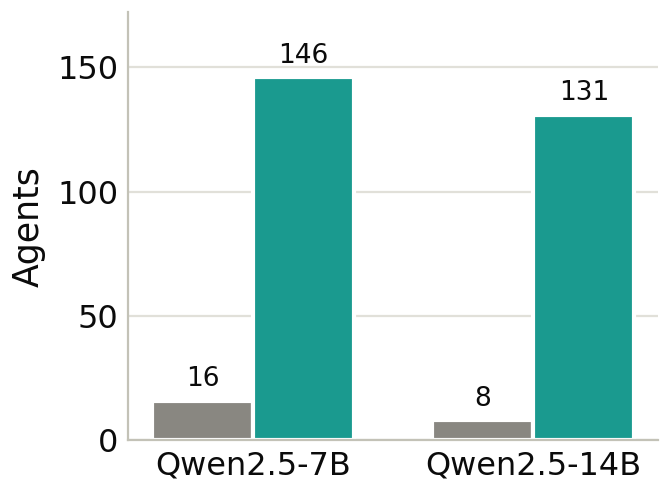
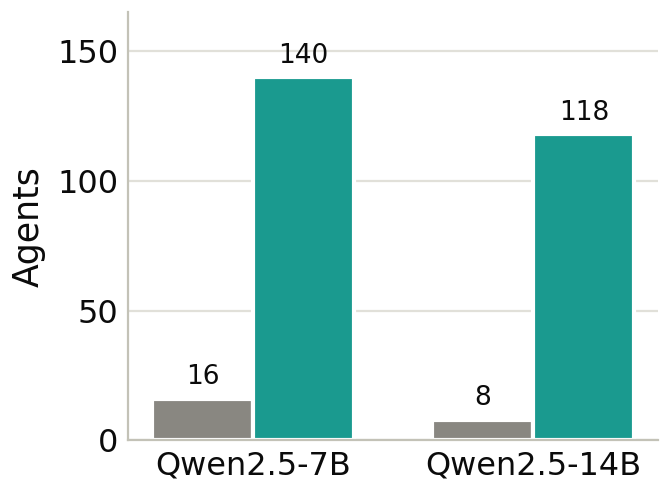
State the capacity criterion with mapped files counted as used

diff --git a/figures/make_paper_figures.py b/figures/make_paper_figures.py
@@ -701,8 +701,7 @@ def stack():
     for more in ("20261008-engine-kvstack-capacity-v2",
                  "20261008-engine-kvstack-capacity-136-v1",
                  "20261008-engine-kvstack-capacity-140-v1",
-                 "20261009-engine-kvstack-capacity-copy-v1",
-                 "20261009-engine-kvstack-capacity-max-v1"):
+                 "20261009-engine-kvstack-capacity-copy-v1"):
         if have(more, "engine_kvstack_summary.csv"):
             line.update({(r["mode"], int(r["agents"])): r
                          for r in rows(more, "engine_kvstack_summary.csv") if int(r["runs"]) > 0})
@@ -761,9 +760,11 @@ def stack():
     fig, ax = panel()
     series = [(label, colour, [int(model[m]["agents_that_fit_by_line"]) for _, model in models])
               for label, colour, m, _ in STACKS if m in ("none", "both")]
-    # every stack at the count that it runs while 16 GiB remain available
+    # every stack at the count that it runs while 16 GiB remain unused; the model
+    # file that the agents map counts as used, which the larger counts of the
+    # campaigns -max-v1 and -qwen14b-131-v1 do not satisfy
     measured = {"none": ("20261009-engine-kvstack-capacity-copy-v1", "20261008-engine-kvstack-qwen14b-none8-v1"),
-                "both": ("20261009-engine-kvstack-capacity-max-v1", "20261008-engine-kvstack-capacity-qwen14b-131-v1")}
+                "both": ("20261008-engine-kvstack-capacity-140-v1", "20261008-engine-kvstack-capacity-qwen14b-118-v1")}
     series = [(label, colour, [ran(d, m) for d in measured[m]][:len(models)])
               for label, colour, m, _ in STACKS if m in measured]
     for group in grouped(ax, [label for label, _ in models], series, 0.36):

diff --git a/docs/RESEARCH_LLM_SHARE_2026-10-05.md b/docs/RESEARCH_LLM_SHARE_2026-10-05.md
@@ -1420,6 +1420,21 @@ files). No agent fails, at least 16.8 GiB remain available in every
 repetition, and the 146 agents generate 37.61 tokens/s in total. Larger
 counts were not run.
 
+**The criterion for the capacity.** `MemAvailable` counts the page cache of
+the model file as available. The unmodified stack does not need these pages
+after it has copied the weights to device memory, but the stacks that read
+the weights in place keep reading them through the GPU. The capacity of a
+stack is therefore the count at which at least 16 GiB remain when the files
+that the agents map count as used. The smallest remainder of six
+repetitions is 21.66 GiB for 16 unmodified agents, 20.29 GiB for 19 agents
+with the prefix mapped, 17.41 GiB for 61 agents with the weights in place
+and 16.02 GiB for 140 agents on STATOR; with Qwen2.5-14B it is 17.95 GiB
+for 8 unmodified agents and 17.69 GiB for 118 agents on STATOR. The runs
+with 64 agents with the weights in place, with 145 and 146 agents on STATOR
+and with 131 agents on STATOR with Qwen2.5-14B complete without a failure
+and keep `MemAvailable` above 16 GiB, but leave 12.69, 12.44, 12.66 and
+8.77 GiB by this criterion and are not used as the capacity.
+
 **The whole stack with Qwen2.5-14B
 (`20261008-engine-kvstack-qwen14b-v1` and `-none8-v1`).** Counts 1 and 4
 first establish a line of 12,486 MiB per unmodified agent. Its conservative

diff --git a/docs/record_src/s6.md b/docs/record_src/s6.md
@@ -726,6 +726,21 @@ files). No agent fails, at least 16.8 GiB remain available in every
 repetition, and the 146 agents generate 37.61 tokens/s in total. Larger
 counts were not run.
 
+**The criterion for the capacity.** `MemAvailable` counts the page cache of
+the model file as available. The unmodified stack does not need these pages
+after it has copied the weights to device memory, but the stacks that read
+the weights in place keep reading them through the GPU. The capacity of a
+stack is therefore the count at which at least 16 GiB remain when the files
+that the agents map count as used. The smallest remainder of six
+repetitions is 21.66 GiB for 16 unmodified agents, 20.29 GiB for 19 agents
+with the prefix mapped, 17.41 GiB for 61 agents with the weights in place
+and 16.02 GiB for 140 agents on STATOR; with Qwen2.5-14B it is 17.95 GiB
+for 8 unmodified agents and 17.69 GiB for 118 agents on STATOR. The runs
+with 64 agents with the weights in place, with 145 and 146 agents on STATOR
+and with 131 agents on STATOR with Qwen2.5-14B complete without a failure
+and keep `MemAvailable` above 16 GiB, but leave 12.69, 12.44, 12.66 and
+8.77 GiB by this criterion and are not used as the capacity.
+
 **The whole stack with Qwen2.5-14B
 (`20261008-engine-kvstack-qwen14b-v1` and `-none8-v1`).** Counts 1 and 4
 first establish a line of 12,486 MiB per unmodified agent. Its conservative
